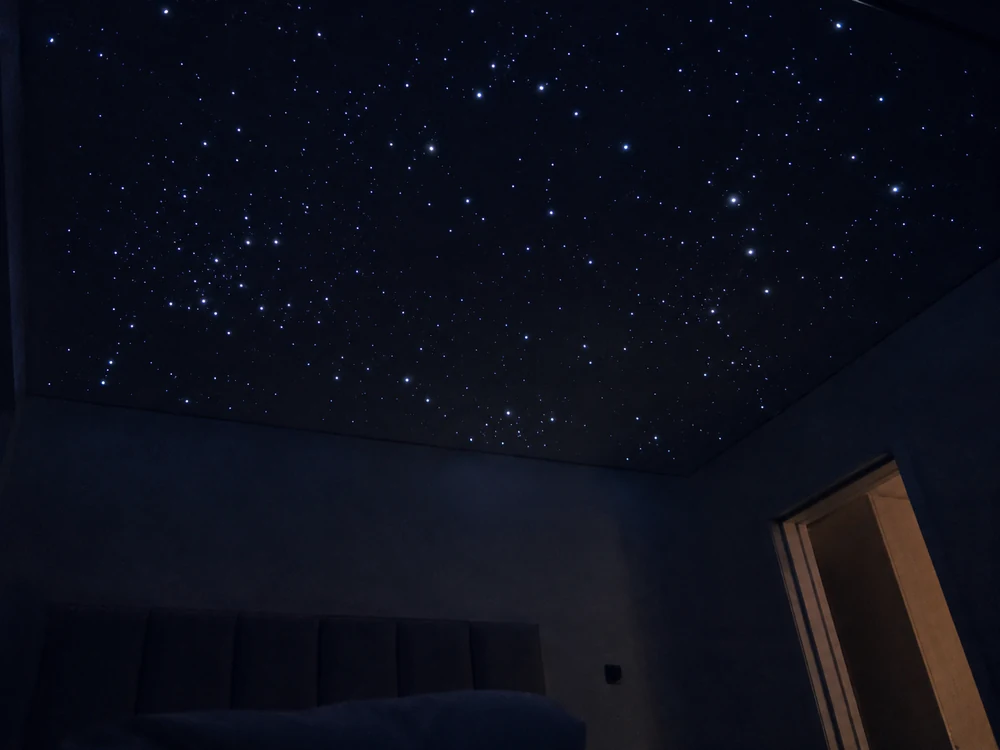
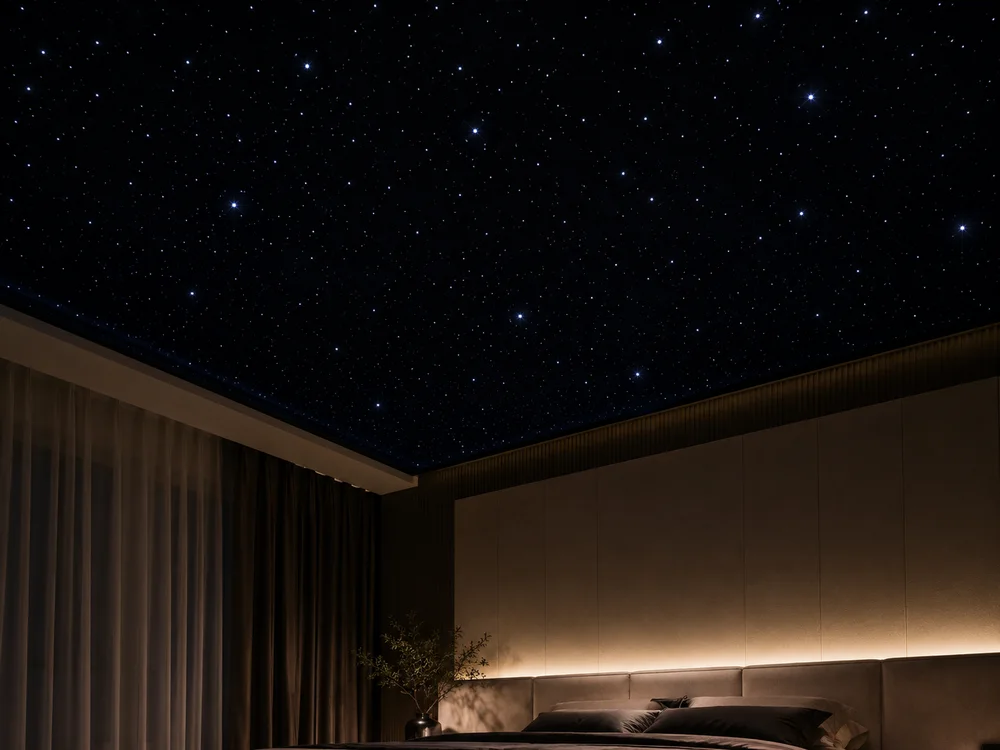
Фото от клиента (генерация 1-4) + карточка «Парящий профиль»
- теневые системы: новое фото с теневым зазором (старое уехало парящему профилю)
- звёздное небо: новое фото, полноценная россыпь звёзд
- комбо: светлый кадр 1586x992, aspect нативный на всех ширинах, якоря выносок
  пересчитаны (мобильные переопределения удалены, кроп совпадает с исходником),
  srcset без 1840, cn-combo-1840.webp удалён
- стандарты: фото замеров заменено (мастер с лазером вдоль стены, лого на футболке)
- новая карточка sol-7 «Парящий профиль» второй в решениях, окно в MODALS,
  ключи s7_h/s7_p в обоих словарях, иконка в стиле кита
- стенд: 360/390 RU+UZ + 1440, переполнений ноль, скрины комбо проверены глазами

diff --git a/index.html b/index.html
@@ -328,7 +328,7 @@ header{position:sticky;top:0;z-index:60;background:rgba(11,10,8,.97);border-bott
    стала 244px, а выноски 1 и 4 переставлены на видимые участки ТЕХ ЖЕ элементов,
    потому что их прежние точки кадрированием отрезаны. Все якоря пересчитаны
    заменой окна: cx=(img%-окно0)/ширина_окна, вертикаль cover не трогает. */
-.combo img{width:100%;aspect-ratio:2456/1116;object-fit:cover;height:auto}
+.combo img{width:100%;aspect-ratio:1586/992;object-fit:cover;height:auto}
 @media(max-width:560px){.combo img{aspect-ratio:16/10}}
 /* ⚠ КООРДИНАТА СТАВИТ ТОЧКУ НА ОБЪЕКТ, а не подпись. Подпись отводится в сторону и
    соединяется с точкой горизонтальной линией, которая кончается на подписи.
@@ -1722,24 +1722,10 @@ section[id],div[id]{scroll-margin-top:80px}
   /* 2. Хвостик-указатель: маркер стал крупнее и закрывал бы саму линию на кадре.
      Берём уже существующий .ann i, новых узлов не заводим. */
   .ann i{display:none}
-  /* 3. Мобильные якоря отдельными значениями. Десктопные проценты НЕ трогаются:
-     на них завязана арифметика зазоров из v3.1 и починенные дефекты 3 и 4 из v4. */
-  /* 3. МОБИЛЬНЫЕ ЯКОРЯ (13.08 отметки Икрома, 18.08 пересчитаны под кадр 16:10).
-     Кадрирование cover показывает 20.45%..79.55% ширины исходника, поэтому каждый
-     якорь пересчитан заменой окна: отметки Икрома для 2 и 3 стоят на ТОЙ ЖЕ точке
-     фотографии (img 36/21 и 51.5/21). Точки 1 и 4 прежним положением ОТРЕЗАНЫ
-     кадром (img 13% и 88%), переставлены на видимые участки тех же элементов:
-     1 на полосу парящей подсветки у левого края кадра, 4 на светящийся карниз над
-     шторами ближе к столовой. Инлайн-стиль перебивает любой селектор, поэтому
-     !important, это единственный способ развести телефон с десктопом без дублей. */
-  .combo .ann[data-ann="2"]{left:26.3%!important;top:21%!important}
-  .combo .ann[data-ann="3"]{left:52.5%!important;top:21%!important}
-  /* 4 и 5 выставлены ПО ПИКСЕЛЯМ снимка кадра 16:10, не пересчётом на глаз:
-     светящийся карниз в перспективе лежит на 42-45%% высоты кадра (замер по
-     столбцам 85-97%%), полоса парящей подсветки проходит через (10%%, 16%%).
-     Первая прикидка (87/14 и 8/27) ставила обе точки в пустой тёмный потолок. */
-  .combo .ann[data-ann="4"]{left:89%!important;top:43%!important}
-  .combo .ann[data-ann="5"]{left:10%!important;top:16%!important}
+  /* 3. Мобильных якорей с 19.08 НЕТ: новый кадр 1586x992 (1.599:1) практически
+     совпадает и с телефонным 16:10, и с десктопным aspect, cover ничего не режет,
+     поэтому инлайновые проценты одни на все ширины. Возвращать отдельные мобильные
+     значения только если кадрирование снова разойдётся с исходником. */
 
   /* ЛУЧИ-УКАЗАТЕЛИ. У цифры 2 их ДВА: она стоит между двумя световыми линиями и должна
      показывать на обе, иначе непонятно, о какой речь. У цифры 3 один, к треку.
@@ -2559,6 +2545,7 @@ footer{padding-bottom:104px}
            Стиль строго как у эталонных sol-6 и sol-4: штрих 1.3, currentColor, без заливки,
            второстепенные линии через stroke-opacity. -->
       <button type="button" class="sol" data-modal="sol-1"><span class="ic"><svg viewBox="0 0 64 64" fill="none"><g stroke="currentColor" stroke-width="2.4" stroke-linecap="round" stroke-linejoin="round"><path d="M12 10v44M12 14h33M20 22v32M20 22h25"/><path d="M20 30h8v-8"/><path d="M29 22h16" opacity=".38"/></g></svg></span><span class="tx"><b data-i18n="s1_h">Теневые системы</b><span data-i18n="s1_p">Идеально ровные стыки и чистая геометрия</span></span><svg class="arr" viewBox="0 0 24 24" fill="none" stroke="currentColor" stroke-width="1.6"><path class="am" d="M9 5l7 7-7 7"/><path class="ad" d="M5 12h14M13 6l6 6-6 6"/></svg></button>
+      <button type="button" class="sol" data-modal="sol-7"><span class="ic"><svg viewBox="0 0 64 64" fill="none"><g stroke="currentColor" stroke-width="2.4" stroke-linecap="round" stroke-linejoin="round"><path d="M8 12h48" opacity=".4"/><path d="M16 20h32v6H16z"/><path d="M8 24c3 4 6 6 10 7M56 24c-3 4-6 6-10 7" opacity=".6"/></g></svg></span><span class="tx"><b data-i18n="s7_h">Парящий профиль</b><span data-i18n="s7_p">Мягкое свечение по контуру потолка</span></span><svg class="arr" viewBox="0 0 24 24" fill="none" stroke="currentColor" stroke-width="1.6"><path class="am" d="M9 5l7 7-7 7"/><path class="ad" d="M5 12h14M13 6l6 6-6 6"/></svg></button>
       <button type="button" class="sol" data-modal="sol-2"><span class="ic"><svg viewBox="0 0 64 64" fill="none"><g stroke="currentColor" stroke-width="2.4" stroke-linecap="round" stroke-linejoin="round"><path d="M8 18h48M14 24h36" opacity=".5"/><path d="M14 21h36" stroke-width="4"/><path d="M20 31l-3 13M32 31v15M44 31l3 13" opacity=".65"/></g></svg></span><span class="tx"><b data-i18n="s2_h">Световые линии</b><span data-i18n="s2_p">Чистый свет. Любые конфигурации</span></span><svg class="arr" viewBox="0 0 24 24" fill="none" stroke="currentColor" stroke-width="1.6"><path class="am" d="M9 5l7 7-7 7"/><path class="ad" d="M5 12h14M13 6l6 6-6 6"/></svg></button>
       <button type="button" class="sol" data-modal="sol-3"><span class="ic"><svg viewBox="0 0 64 64" fill="none"><g stroke="currentColor" stroke-width="2.4" stroke-linecap="round" stroke-linejoin="round"><path d="M8 14h48v10H8zM14 19h36"/><path d="M15 24v9l17-3v-6M45 24v8"/><path d="M39 32h12l-2 8a4 4 0 0 1-8 0z"/><path d="M15 33l17-3 1 7-17 3z"/></g></svg></span><span class="tx"><b data-i18n="s3_h">Магнитные треки</b><span data-i18n="s3_p">Гибкое освещение под ваши задачи</span></span><svg class="arr" viewBox="0 0 24 24" fill="none" stroke="currentColor" stroke-width="1.6"><path class="am" d="M9 5l7 7-7 7"/><path class="ad" d="M5 12h14M13 6l6 6-6 6"/></svg></button>
       <button type="button" class="sol" data-modal="sol-6"><span class="ic"><svg viewBox="0 0 64 64" fill="none"><g stroke="currentColor" stroke-width="2.4" stroke-linecap="round" stroke-linejoin="round"><rect x="13" y="17" width="38" height="30" rx="2"/><rect x="19" y="23" width="26" height="18" rx="1" opacity=".62"/><path d="M32 9v4M32 51v4M5 32h4M55 32h4M11 11l3 3M50 50l3 3M53 11l-3 3M14 50l-3 3" opacity=".7"/></g></svg></span><span class="tx"><b data-i18n="s6_h">Световой короб</b><span data-i18n="s6_p">Светящаяся панель из полупрозрачного полотна</span></span><svg class="arr" viewBox="0 0 24 24" fill="none" stroke="currentColor" stroke-width="1.6"><path class="am" d="M9 5l7 7-7 7"/><path class="ad" d="M5 12h14M13 6l6 6-6 6"/></svg></button>
@@ -2586,16 +2573,16 @@ footer{padding-bottom:104px}
         <picture>
           <!-- Три ширины: на телефоне блок занимает всю ширину, на десктопе половину. -->
           <source type="image/webp"
-            srcset="assets/cn-combo-1228.webp 1228w, assets/cn-combo-1840.webp 1840w, assets/cn-combo.webp 2456w"
+            srcset="assets/cn-combo-1228.webp 1228w, assets/cn-combo.webp 1586w"
             sizes="(min-width:900px) 60vw, 100vw">
-          <img src="assets/cn-combo.jpg" alt="Комбинированное потолочное решение: теневой профиль, световые линии, магнитные треки и скрытый карниз в одном интерьере" width="1228" height="558" loading="lazy">
+          <img src="assets/cn-combo.jpg" alt="Комбинированное потолочное решение: парящая подсветка, световые линии, магнитные треки и скрытый карниз в светлой гостиной" width="1228" height="768" loading="lazy">
         </picture>
         <!-- Якоря пересчитаны под кадр 2.2:1 (18.08): прежние проценты считались от
              полного кадра 2.7:1, точки на том же месте ФОТОГРАФИИ, что и раньше. -->
-        <button type="button" data-n="2" data-ann="2" class="ann" style="left:25.5%;top:22%" aria-label="Световые линии"><i></i><span data-i18n="a2">Световые линии</span></button>
-        <button type="button" data-n="3" data-ann="3" class="ann" style="left:60.5%;top:23.5%" aria-label="Магнитные трековые системы"><i></i><span data-i18n="a3">Магнитные трековые системы</span></button>
-        <button type="button" data-n="4" data-ann="4" class="ann ann--l" style="left:96.8%;top:25%" aria-label="Скрытый карниз"><i></i><span data-i18n="a4">Скрытый карниз</span></button>
-        <button type="button" data-n="1" data-ann="5" class="ann" style="left:4.5%;top:22%" aria-label="Парящая подсветка"><i></i><span data-i18n="a5">Парящая подсветка</span></button>
+        <button type="button" data-n="2" data-ann="2" class="ann" style="left:20%;top:19%" aria-label="Световые линии"><i></i><span data-i18n="a2">Световые линии</span></button>
+        <button type="button" data-n="3" data-ann="3" class="ann" style="left:73%;top:12%" aria-label="Магнитные трековые системы"><i></i><span data-i18n="a3">Магнитные трековые системы</span></button>
+        <button type="button" data-n="4" data-ann="4" class="ann ann--l" style="left:92%;top:30%" aria-label="Скрытый карниз"><i></i><span data-i18n="a4">Скрытый карниз</span></button>
+        <button type="button" data-n="1" data-ann="5" class="ann" style="left:11%;top:44%" aria-label="Парящая подсветка"><i></i><span data-i18n="a5">Парящая подсветка</span></button>
         <!-- ПОПОВЕР ВЫНОСКИ (CDO v4, пункт 4). Один на все пять точек, от 900px.
              Ниже 900px точки открывают общее модальное окно, поповера там нет. -->
         <div class="pop" id="annPop" role="dialog" aria-modal="false" aria-labelledby="popTitle" hidden>
@@ -3050,7 +3037,7 @@ var I18N = {
  h_kick:"Премиальные",h_h1:"Натяжные<br><span class='g'>потолки</span>",h_sub2:"Архитектура света и&nbsp;пространства",
  h_sub:"Создаём уникальные интерьеры с помощью современных потолочных решений и безупречного света.",
  s_kick:"Наши решения",
- s1_h:"<span class='dt'>Теневые потолочные системы</span><span class='mb'>Теневые системы</span>",s1_p:"Идеально ровные стыки и чистая геометрия",
+ s1_h:"<span class='dt'>Теневые потолочные системы</span><span class='mb'>Теневые системы</span>",s1_p:"Идеально ровные стыки и чистая геометрия",s7_h:"<span class='dt'>Парящий потолочный профиль</span><span class='mb'>Парящий профиль</span>",s7_p:"Мягкое свечение по контуру потолка",
  s2_h:"Световые линии",s2_p:"Чистый свет. Любые конфигурации",
  s3_h:"<span class='dt'>Магнитные трековые системы</span><span class='mb'>Магнитные треки</span>",s3_p:"Гибкое освещение под ваши задачи",
  s4_h:"Скрытые карнизы",s4_p:"Эстетика без компромиссов. Шторы «из потолка»",
@@ -3145,7 +3132,7 @@ var I18N = {
  h_kick:"Premium",h_h1:"Tarang<br><span class='g'>shiftlar</span>",h_sub2:"Yorugʻlik va makon arxitekturasi",
  h_sub:"Zamonaviy shift yechimlari va benuqson yorugʻlik bilan betakror interyerlar yaratamiz.",
  s_kick:"Bizning yechimlar",
- s1_h:"<span class='dt'>Soya shift tizimlari</span><span class='mb'>Soya tizimlari</span>",s1_p:"Mukammal tekis choklar va toza geometriya",
+ s1_h:"<span class='dt'>Soya shift tizimlari</span><span class='mb'>Soya tizimlari</span>",s1_p:"Mukammal tekis choklar va toza geometriya",s7_h:"<span class='dt'>Muallaq shift profili</span><span class='mb'>Muallaq profil</span>",s7_p:"Shift konturi boʻylab mayin yorugʻlik",
  s2_h:"Yorugʻlik chiziqlari",s2_p:"Toza yorugʻlik. Istalgan konfiguratsiya",
  s3_h:"<span class='dt'>Magnitli trek tizimlari</span><span class='mb'>Magnitli treklar</span>",s3_p:"Vazifangizga mos moslashuvchan yoritish",
  s4_h:"Yashirin karnizlar",s4_p:"Murosasiz estetika. Pardalar «shiftdan»",
@@ -3365,6 +3352,7 @@ var I18N = {
      Грузятся ТОЛЬКО при открытии окна, на загрузку страницы не влияют. */
   var MODALS={
    "sol-1":{k:"s_kick",t:"s1_h",img:"assets/cn-sol1.webp",p:["s1_p","mp_sol"],l:["mp_l1","mp_l2","mp_l3"]},
+   "sol-7":{k:"s_kick",t:"s7_h",img:"assets/cn-sol7.webp",p:["s7_p","mp_sol"],l:["mp_l1","mp_l2","mp_l3"]},
    "sol-2":{k:"s_kick",t:"s2_h",img:"assets/cn-sol2.webp",p:["s2_p","mp_sol"],l:["mp_l1","mp_l2","mp_l3"]},
    "sol-3":{k:"s_kick",t:"s3_h",img:"assets/cn-sol3.webp",p:["s3_p","mp_sol"],l:["mp_l1","mp_l2","mp_l3"]},
    "sol-4":{k:"s_kick",t:"s4_h",img:"assets/cn-sol4.webp",p:["s4_p","mp_sol"],l:["mp_l1","mp_l2","mp_l3"]},
